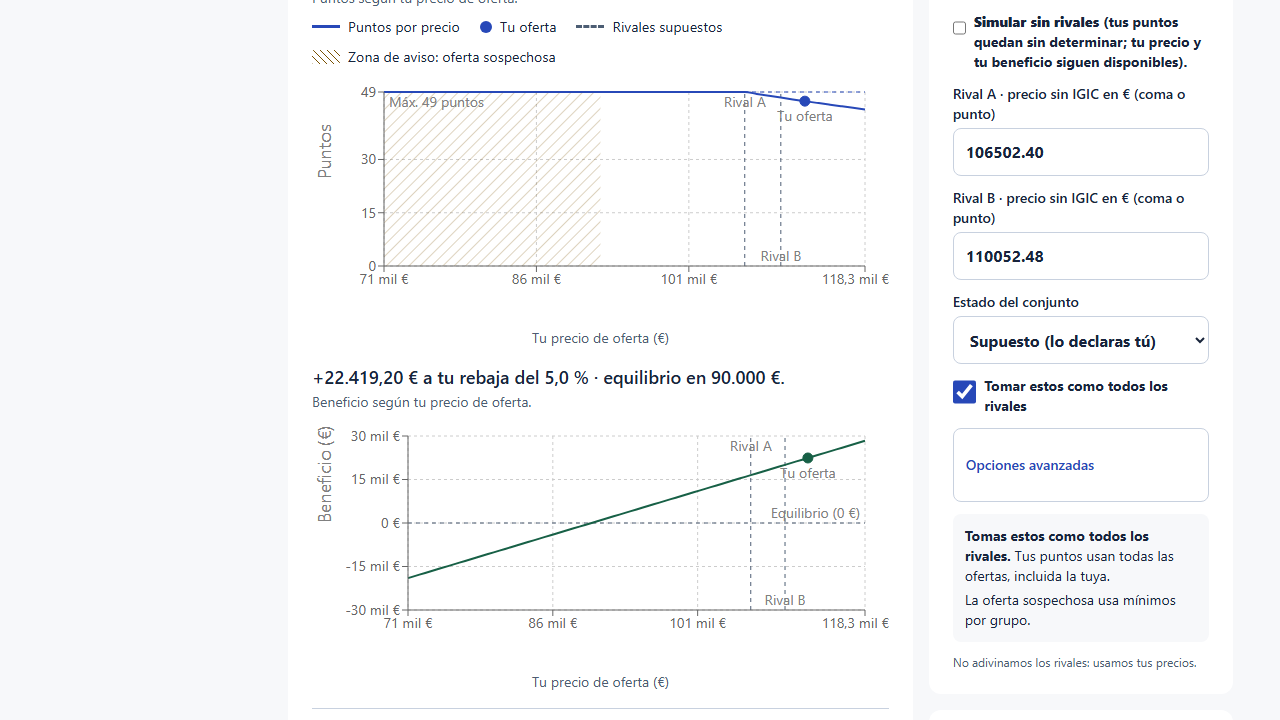
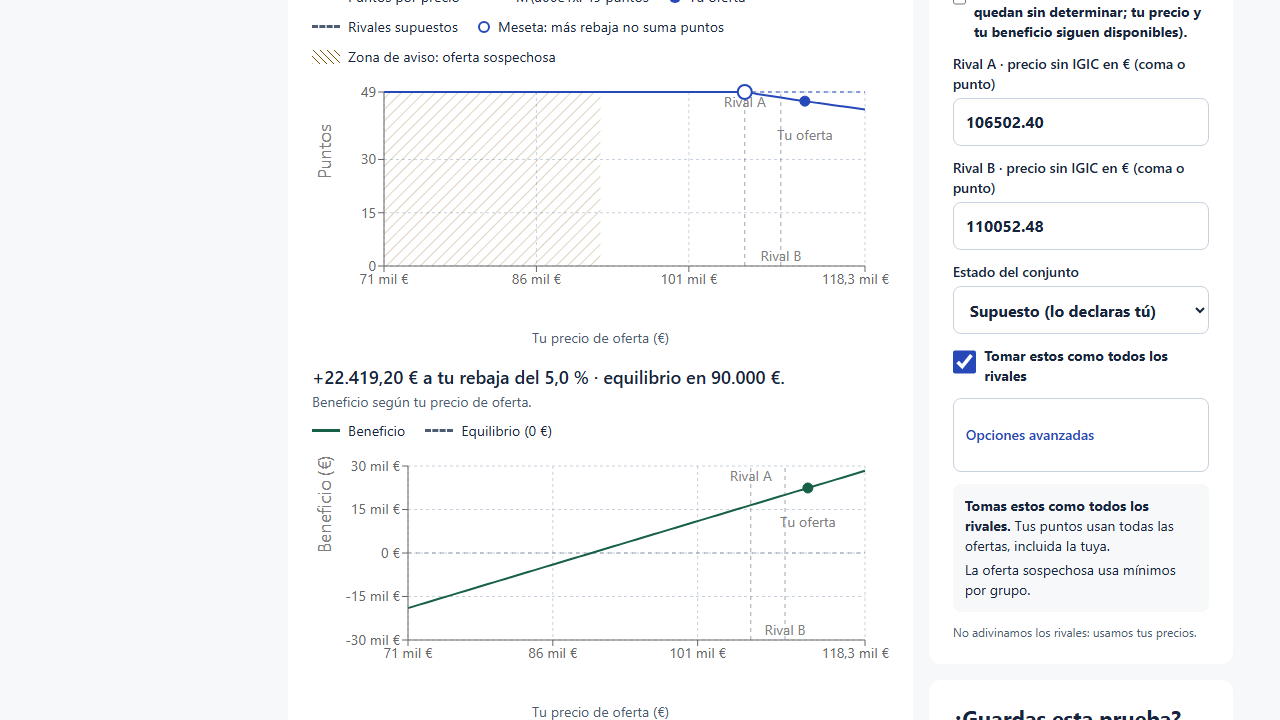
V3 P1-04: matriz 8x5 + regen 01-10 + v3-before + DECISION_LOG_V3 + malla 729 (axe 0 serious+)

diff --git a/scripts/demo-shots/v3-shots.spec.ts b/scripts/demo-shots/v3-shots.spec.ts
@@ -1,0 +1,159 @@
+import path from "node:path";
+import { expect, test, type Page } from "@playwright/test";
+import { loadDemo } from "../../tests/e2e/helpers";
+
+// V3 evidence matrix (§8): 8 scenes x 5 widths on the real build with the
+// seeded demo. Fresh storage per run, settled UI, viewport-unique scenario
+// names. Run explicitly; never part of the gates.
+const OUT = path.resolve(__dirname, "..", "..", "docs", "demo", "v3");
+
+async function openTab(page: Page, name: string): Promise<void> {
+  await page.getByRole("tab", { name }).click();
+}
+
+async function settled(page: Page): Promise<void> {
+  await expect(page.getByTestId("tender-title")).toBeVisible();
+  await page.evaluate(() => document.fonts.ready.then(() => true));
+  await page.waitForLoadState("networkidle");
+  await page.mouse.move(20, 20);
+  await page
+    .locator("li[data-sonner-toast]")
+    .first()
+    .waitFor({ state: "detached", timeout: 8000 });
+  await page.waitForTimeout(600);
+}
+
+async function shot(page: Page, width: number, file: string): Promise<void> {
+  await settled(page);
+  await page.screenshot({ path: path.join(OUT, String(width), file), animations: "disabled" });
+}
+
+async function saveNamed(page: Page, discount: string, name: string, price: string): Promise<void> {
+  await page.getByTestId("discount-input").fill(discount);
+  await expect(page.getByTestId("price-net")).toContainText(price);
+  await page.getByTestId("scenario-name").fill(name);
+  await page.getByTestId("save-scenario").click();
+  await expect(page.getByText(`Prueba «${name}» guardada.`)).toBeVisible();
+}
+
+async function fillStress(page: Page): Promise<void> {
+  const section = page.getByTestId("stress-section");
+  await section.getByLabel("Rebaja inicial en tanto por ciento").fill("5");
+  await section.getByLabel("Rebaja final en tanto por ciento").fill("15");
+  await section.getByLabel("Paso de la malla en tanto por ciento").fill("5");
+  await section.getByLabel("Tu coste sin impuestos en € (coma o punto)").fill("80000,00");
+  await section.getByLabel("Periodo en meses").fill("24");
+  await section.getByLabel("Rival A · precio sin impuestos en €").fill("110000,00");
+  await section.getByLabel("Rival B · precio sin impuestos en €").fill("115000,00");
+  await section.getByLabel("Puntos por precio mínimos").fill("40");
+  await section.getByLabel("Beneficio mínimo en € (coma o punto)").fill("1000");
+}
+
+const WIDTHS = [
+  { width: 1440, height: 900 },
+  { width: 1024, height: 768 },
+  { width: 768, height: 1024 },
+  { width: 390, height: 844 },
+  { width: 320, height: 568 },
+];
+
+for (const { width, height } of WIDTHS) {
+  test.describe(`v3 matrix ${width}x${height}`, () => {
+    test.use({ viewport: { width, height } });
+
+    test(`capture 8 scenes at ${width}px`, async ({ page }) => {
+      test.setTimeout(240_000);
+      const tag = String(width);
+      const ten = `V3 10 ${tag}`;
+      const fifteen = `V3 15 ${tag}`;
+
+      // S1 library: demo CTA without scrolling.
+      await page.goto("/");
+      await expect(page.getByTestId("demo-load")).toBeVisible();
+      await page.evaluate(() => document.fonts.ready.then(() => true));
+      await page.waitForLoadState("networkidle");
+      await page.mouse.move(20, 20);
+      await page.waitForTimeout(600);
+      await page.screenshot({
+        path: path.join(OUT, tag, "s1-lib.png"),
+        animations: "disabled",
+      });
+
+      // S2 workspace hero with the decision spotlight (gold pair saved
+      // first so the verdict is the settled state, not test leftovers).
+      await loadDemo(page);
+      await expect(page.getByTestId("tender-title")).toContainText("Tías");
+      await openTab(page, "Precio");
+      await saveNamed(page, "10", ten, "106.502,40");
+      await saveNamed(page, "15", fifteen, "100.585,60");
+      await openTab(page, "Resumen");
+      const spotlight = page.getByTestId("decision-spotlight");
+      await expect(spotlight).toContainText("con los mismos puntos");
+      await shot(page, width, "s2-hero.png");
+
+      // S3 pricing simulator with the compare hero (same gold pair).
+      await openTab(page, "Precio");
+      await page.getByRole("checkbox", { name: `Comparar ${ten}` }).check();
+      await page.getByRole("checkbox", { name: `Comparar ${fifteen}` }).check();
+      await page.getByTestId("compare-run").click();
+      const hero = page.getByTestId("decision-comparison-hero");
+      await expect(hero).toBeVisible();
+      await hero.evaluate((el) => el.scrollIntoView({ block: "center" }));
+      await shot(page, width, "s3-pricing.png");
+
+      // S4 curve with plateau legend.
+      await page.getByTestId("curve-chart").scrollIntoViewIfNeeded();
+      await expect(page.getByTestId("curve-chart")).toBeVisible();
+      await shot(page, width, "s4-curva.png");
+
+      // S5 frontier in Informe.
+      await openTab(page, "Informe");
+      await page.getByRole("checkbox", { name: `Comparar ${ten}` }).check();
+      await page.getByRole("checkbox", { name: `Comparar ${fifteen}` }).check();
+      await page.getByTestId("compare-run").click();
+      const frontier = page.getByTestId("frontier-result");
+      await expect(frontier).toBeVisible();
+      await frontier.evaluate((el) => el.scrollIntoView({ block: "center" }));
+      await shot(page, width, "s5-frontera.png");
+
+      // S6 stress mesh, then edited into the stale state.
+      await openTab(page, "Precio");
+      const section = page.getByTestId("stress-section");
+      await section.scrollIntoViewIfNeeded();
+      await fillStress(page);
+      await section.getByTestId("stress-run").click();
+      await expect(section.getByTestId("stress-selection")).toContainText("cumple tus límites", {
+        timeout: 60_000,
+      });
+      await section.getByLabel("Beneficio mínimo en € (coma o punto)").fill("9000");
+      const stale = section.getByTestId("stress-stale-input");
+      await expect(stale).toContainText("Resultado anterior");
+      await stale.evaluate((el) => el.scrollIntoView({ block: "center" }));
+      await shot(page, width, "s6-malla.png");
+
+      // S7 evidence drawer with the proof trail.
+      await page
+        .getByRole("button", { name: /p\. 10: ver cita/ })
+        .first()
+        .click();
+      const drawer = page.getByTestId("evidence-drawer");
+      await expect(drawer).toBeVisible();
+      await expect(drawer.getByTestId("evidence-trail")).toBeVisible();
+      await shot(page, width, "s7-evidencia.png");
+      await page.keyboard.press("Escape");
+      await expect(drawer).toBeHidden();
+
+      // S8 honest error state (empty cost blocks the mesh run).
+      await page.reload();
+      await expect(page.getByTestId("tender-title")).toContainText("Tías");
+      await openTab(page, "Precio");
+      const fresh = page.getByTestId("stress-section");
+      await fresh.scrollIntoViewIfNeeded();
+      await fresh.getByTestId("stress-run").click();
+      const alert = fresh.getByRole("alert");
+      await expect(alert).toContainText("Revisa tu coste");
+      await alert.evaluate((el) => el.scrollIntoView({ block: "center" }));
+      await shot(page, width, "s8-estado.png");
+    });
+  });
+}

diff --git a/apps/api/tests/integration/test_stress.py b/apps/api/tests/integration/test_stress.py
@@ -48,6 +48,22 @@ def _run(client: TestClient, payload: dict[str, Any]) -> dict[str, Any]:
     return res.json()  # type: ignore[no-any-return]
 
 
+def test_full_mesh_81_by_9_counts_and_indexes(seeded_client: TestClient) -> None:
+    """BL-V3 P1-04 (§8): high-content mesh fills the 729-cell ceiling."""
+    payload = _request(
+        [_hyp(f"H{i + 1}", "80000.00") for i in range(9)], "40", "1000.00"
+    )
+    payload["candidate_discounts"] = [f"{i * 0.005:.4f}" for i in range(81)]
+    body = _run(seeded_client, payload)
+    assert body["tested_candidates"] == 81
+    assert body["tested_hypotheses"] == 9
+    assert len(body["cells"]) == 729
+    assert len(body["by_discount"]) == 81
+    assert sorted({c["hypothesis_index"] for c in body["cells"]}) == list(range(9))
+    assert body["selection"] is not None
+    assert body["selection_reason"] != ""
+
+
 def test_oracle_a_selects_12_percent(seeded_client: TestClient) -> None:
     body = _run(seeded_client, _request([_hyp("Base", "80000.00")], "47", "8000.00"))
     assert body["tested_candidates"] == 3

diff --git a/docs/DECISION_LOG_V3.md b/docs/DECISION_LOG_V3.md
@@ -1,0 +1,88 @@
+# BidLab · Decision log V3 (issue #4)
+
+Formato heredado de [DECISION_LOG_V2](DECISION_LOG_V2.md):
+decisión + motivo + dónde se fija con tests. Detalle por tarea en
+[CHANGELOG_IMPLEMENTACION_V3](CHANGELOG_IMPLEMENTACION_V3.md).
+
+## Decisiones técnicas
+
+- D-V3-1 Comparador: guarda de empate `ds==0 && dp==0`
+  (`same_price_score`) en `compare.py`; duelo editorial solo con
+  exactamente 2 pruebas (con 3 manda la tabla). Fijado por
+  `apps/api/tests/unit/test_compare_verdicts.py` y
+  `tests/e2e/compare.spec.ts` (duelo visible / ausente con 3).
+- D-V3-2 Frontera: motivo «dominada» por dimensión (`_dominada`,
+  espejo de `compare._supera`): dimensiones iguales se nombran
+  como iguales, nunca como menos. El propio ejemplo del contrato
+  exhibía el bug (49/49 con «menos puntos»); ejemplo corregido y
+  YAML regenerado (solo ejemplo, sin cambio de schema). Fijado por
+  `test_decision_frontier.py` (3 casos) y CMP-05
+  («con los mismos puntos»).
+- D-V3-3 Stress: `hypothesis_index` en el contrato (regen
+  exact-repro: builder + datamodel-codegen 0.86.0 +
+  openapi-typescript 7.13.0, diffs aditivos verificados) en vez de
+  heurística posicional en el frontal. Banner «Resultado anterior»
+  antes del título (bloquea Aplicar, ya lo hacía); minimapa de 3 +
+  expansor; lookup por `Map` (O(1) por celda, sin cifras de
+  rendimiento inventadas). Repro E2E primero (2→1, rojo), luego
+  verde. Fijado por `test_stress.py` (índices, malla 729) y
+  `stress.spec.ts` (7/7).
+- D-V3-4 Curva: meseta por lookup sobre puntos backend (racha
+  inicial 2+ en el máximo, anclada al precio menor); sin meseta,
+  título neutral. «Máx» y «Equilibrio» salen del SVG a la leyenda
+  HTML (precedente BL-V2-03); offsets solo de dibujo (offset 24 en
+  banda alta, dx ±28 en bordes). Fijado por `curveFlags.test.ts`
+  (6 casos meseta) y `curve-v3.spec.ts` (7/7: meseta/neutral,
+  tooltip sin shift, teclado, 320, extremos, zoom-equivalente).
+- D-V3-5 Zoom 200%: equivalencia honestada a 640 CSS px (1280 al
+  200 %). Playwright no tiene API de zoom de navegador y el `zoom`
+  CSS no refluye breakpoints (medido: 182 px de artefacto). El
+  layout bajo zoom real computa igual que el viewport reducido.
+- D-V3-6 Evidencia: trail de 4 estados, no 5 (la propuesta IA por
+  cita no existe en el contrato — `CitationProposal` no lleva id —
+  y el ASCII del prompt la marca opcional; las propuestas viven en
+  Revisar, destino del trail). Drawer en 1 columna: 672 px no dan
+  para 2 columnas legibles; foco/Escape/trampa y móvil secuencial
+  con CTA fija ya conformes. Fijado por `EvidenceDrawer.test.tsx`
+  (vacíos honestos) y `t15-evidence.spec.ts` (8/8).
+- D-V3-7 Capturas: matriz 8×5 con almacenamiento propio por
+  ejecución. Incidente registrado: la primera pasada compartió
+  storage con `v2-shots` (nombres V2 en el hero) y regeneró
+  `docs/v2-shots`; se restauró de git intacto y se repitió
+  aislado. 01–10 regen: 5 cambiaron (UI V3), 5 byte-idénticas;
+  `v3-before/` archiva el antes.
+- D-V3-8 P2-01 SVG: sin SVG decorativos nuevos. El flujo vive en
+  HTML por accesibilidad (trace bar, proof trail); los gráficos de
+  datos ya son SVG (curva recharts, hatch de anormalidad, anillo
+  de meseta). Un diagrama de flujo duplicaría el rastro sin añadir
+  comprensión.
+- D-V3-9 P2-03 a11y: axe serious+ medido por la puerta
+  `qa-visual` (5 pestañas × 2 viewports, 0 violaciones; ver
+  verification-log). Lighthouse no medido: sin toolchain en el
+  repo y sin presupuestos; no se publica ningún número.
+- D-V3-10 Push por oleada: igual que D-V2-8 (la orden vigente del
+  autor —siempre commit y push— prevalece sobre la regla del
+  prompt V3 que pedía autorización).
+
+## Deudas
+
+- Etiquetas SVG dependientes de datos: la regla offset/dx cubre
+  demo + E2E (defecto, 0 %, 40 %, 320/640/1280); combinaciones
+  extremas de rivales no exploradas exhaustivamente.
+- `feasible_count` sigue en contrato (heredado V2; renombrarlo
+  rompería clientes).
+- Lighthouse sin medir (D-V3-9).
+- Vídeo 180 s y candidatura: del autor (el repo aporta guion
+  consistente + storyboard + 5 capturas actuales).
+- Meta live: bloqueo externo (sin clave/admisión/saldo; 0 llamadas).
+
+## Descarte con motivo
+
+- Drawer en 2 columnas (ver D-V3-6).
+- Scatterplot Pareto: con 2–3 opciones, el layout estático +
+  tabla es más claro; el prompt lo permite decidir con capturas.
+- Highlight hover/focus de líneas secundarias: recharts no lo
+  soporta en ReferenceLines sin SVG a medida; atenuación fija
+  (opacidad 0,55) + leyenda + tabla como detalle por teclado.
+- Cambio de framework, librería de charts, predictor, RAG,
+  animación Meta, despliegue público: prohibidos por prompt/AGENTS.

diff --git a/docs/demo/README.md b/docs/demo/README.md
@@ -7,12 +7,13 @@ Ayuntamiento de Tías (Lanzarote).
 
 ## Ver en 2 minutos (sin instalar nada)
 
-Capturas regeneradas el 29-oct-2026 (post-issue #1) con
-`npx playwright test -c scripts/demo-shots/playwright.shots.config.ts`
+Capturas 01–10 regeneradas el 29-oct-2026 (post-V3, issue #4) con
+`npx playwright test -c scripts/demo-shots/playwright.shots.config.ts shots.spec`
 (base separada de la suite E2E, nombres legibles, UI asentada):
-tuteo, «Datos de ejemplo», comparar desde «Precio», drawer con
-aviso honesto sin imagen (T15), radar con ejemplo sintético (T20, 09)
-y techo de coste en la malla (T21, 10).
+01/03/06/07/10 cambiaron con la UI V3 (spotlight, meseta, duelo,
+proof trail, banner de malla); 02/04/05/08/09 salieron byte-idénticas.
+El estado pre-V3 se conserva en [v3-before/](v3-before/)
+(copiado antes de regenerar, sin retocar).
 
 | Pantalla | Qué demuestra |
 |---|---|
@@ -29,6 +30,30 @@ y techo de coste en la malla (T21, 10).
 
 ![Resumen](01-resumen.png)
 ![Precio](02-precio.png)
+
+## Matriz V3 (§8): 8 escenas × 5 anchos
+
+Capturada el 29-oct-2026 con
+`npx playwright test -c scripts/demo-shots/playwright.shots.config.ts v3-shots`
+(misma semilla demo, almacenamiento fresco por ejecución, nombres por ancho).
+Cada escena se asienta (fuentes, red, toasts) antes de capturar; la fila
+«Gráfica y Pareto» del prompt se desdobla en s4/s5 para no recortar.
+
+| Escena | 1440 | 1024 | 768 | 390 | 320 | Qué demuestra |
+|---|---|---|---|---|---|---|
+| s1 biblioteca/CTA | [png](v3/1440/s1-lib.png) | [png](v3/1024/s1-lib.png) | [png](v3/768/s1-lib.png) | [png](v3/390/s1-lib.png) | [png](v3/320/s1-lib.png) | Primer CTA sin scroll; estado vacío honesto |
+| s2 hero | [png](v3/1440/s2-hero.png) | [png](v3/1024/s2-hero.png) | [png](v3/768/s2-hero.png) | [png](v3/390/s2-hero.png) | [png](v3/320/s2-hero.png) | Veredicto spotlight con la pareja oro |
+| s3 precio | [png](v3/1440/s3-pricing.png) | [png](v3/1024/s3-pricing.png) | [png](v3/768/s3-pricing.png) | [png](v3/390/s3-pricing.png) | [png](v3/320/s3-pricing.png) | Simulador + hero comparador + duelo |
+| s4 curva | [png](v3/1440/s4-curva.png) | [png](v3/1024/s4-curva.png) | [png](v3/768/s4-curva.png) | [png](v3/390/s4-curva.png) | [png](v3/320/s4-curva.png) | Meseta, leyenda HTML, sin solapes |
+| s5 frontera | [png](v3/1440/s5-frontera.png) | [png](v3/1024/s5-frontera.png) | [png](v3/768/s5-frontera.png) | [png](v3/390/s5-frontera.png) | [png](v3/320/s5-frontera.png) | Pareto con motivos exactos |
+| s6 malla | [png](v3/1440/s6-malla.png) | [png](v3/1024/s6-malla.png) | [png](v3/768/s6-malla.png) | [png](v3/390/s6-malla.png) | [png](v3/320/s6-malla.png) | Banner «resultado anterior» antes de la conclusión |
+| s7 evidencia | [png](v3/1440/s7-evidencia.png) | [png](v3/1024/s7-evidencia.png) | [png](v3/768/s7-evidencia.png) | [png](v3/390/s7-evidencia.png) | [png](v3/320/s7-evidencia.png) | Drawer + proof trail de 4 estados |
+| s8 estado | [png](v3/1440/s8-estado.png) | [png](v3/1024/s8-estado.png) | [png](v3/768/s8-estado.png) | [png](v3/390/s8-estado.png) | [png](v3/320/s8-estado.png) | Error honesto (coste vacío bloquea la malla) |
+
+Revisadas a ojo: sin colisiones de etiquetas, sin scroll horizontal global
+(fijado además por E2E en 320/390/640/1280), drawer usable a 320.
+El zoom 200% se equivale a 640 CSS px (ver `tests/e2e/curve-v3.spec.ts`).
+Vacío/carga además del error: cubiertos por E2E, no por foto.
 
 ## Probar en 5 minutos
 
